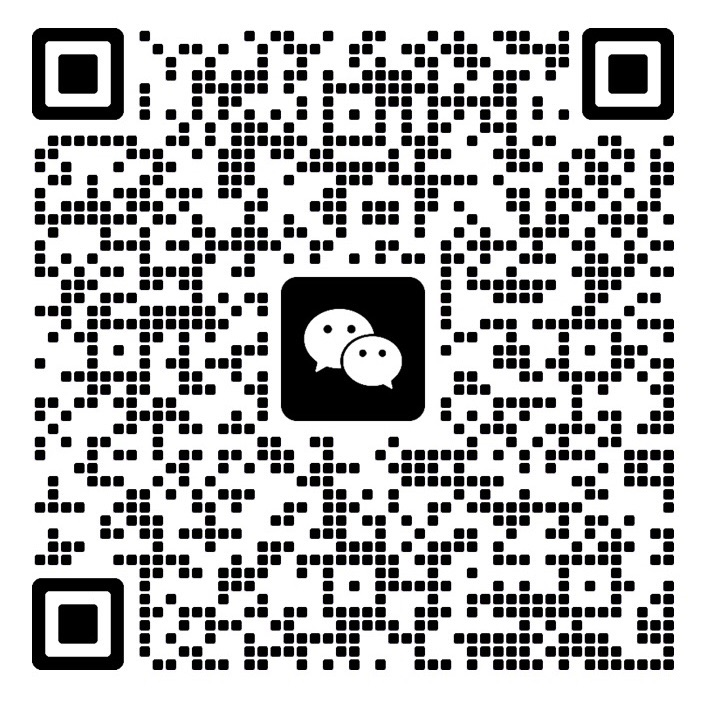
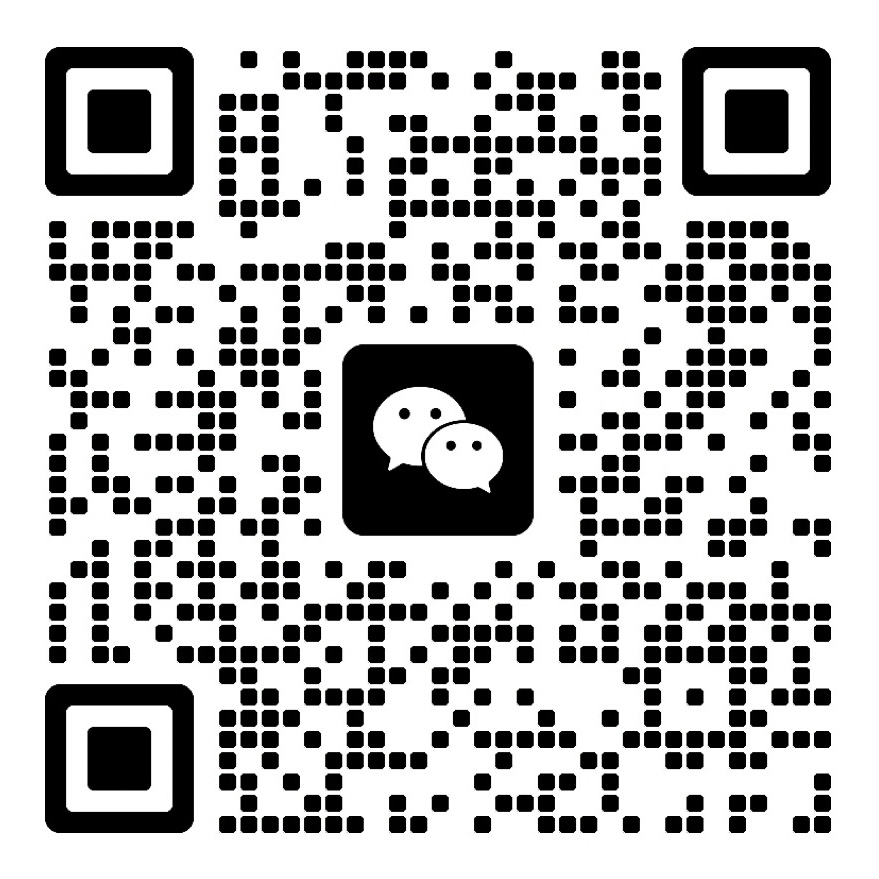
docs：二维码更新

diff --git a/README.md b/README.md
@@ -26,9 +26,11 @@ pnpm run dev
 - [使用文档](https://blog.bszhct.com/2022/08/15/onlyoffice-quick-start/)
 
 
-## onlyoffice 填坑交流群
+## 填坑交流群
 
-![onlyoffice 填坑交流群](./qrcode.jpg)
+添加后请备注「oo」
+
+<img src="./qrcode.jpg" style="width: 120px" />
 
 
 ## License
